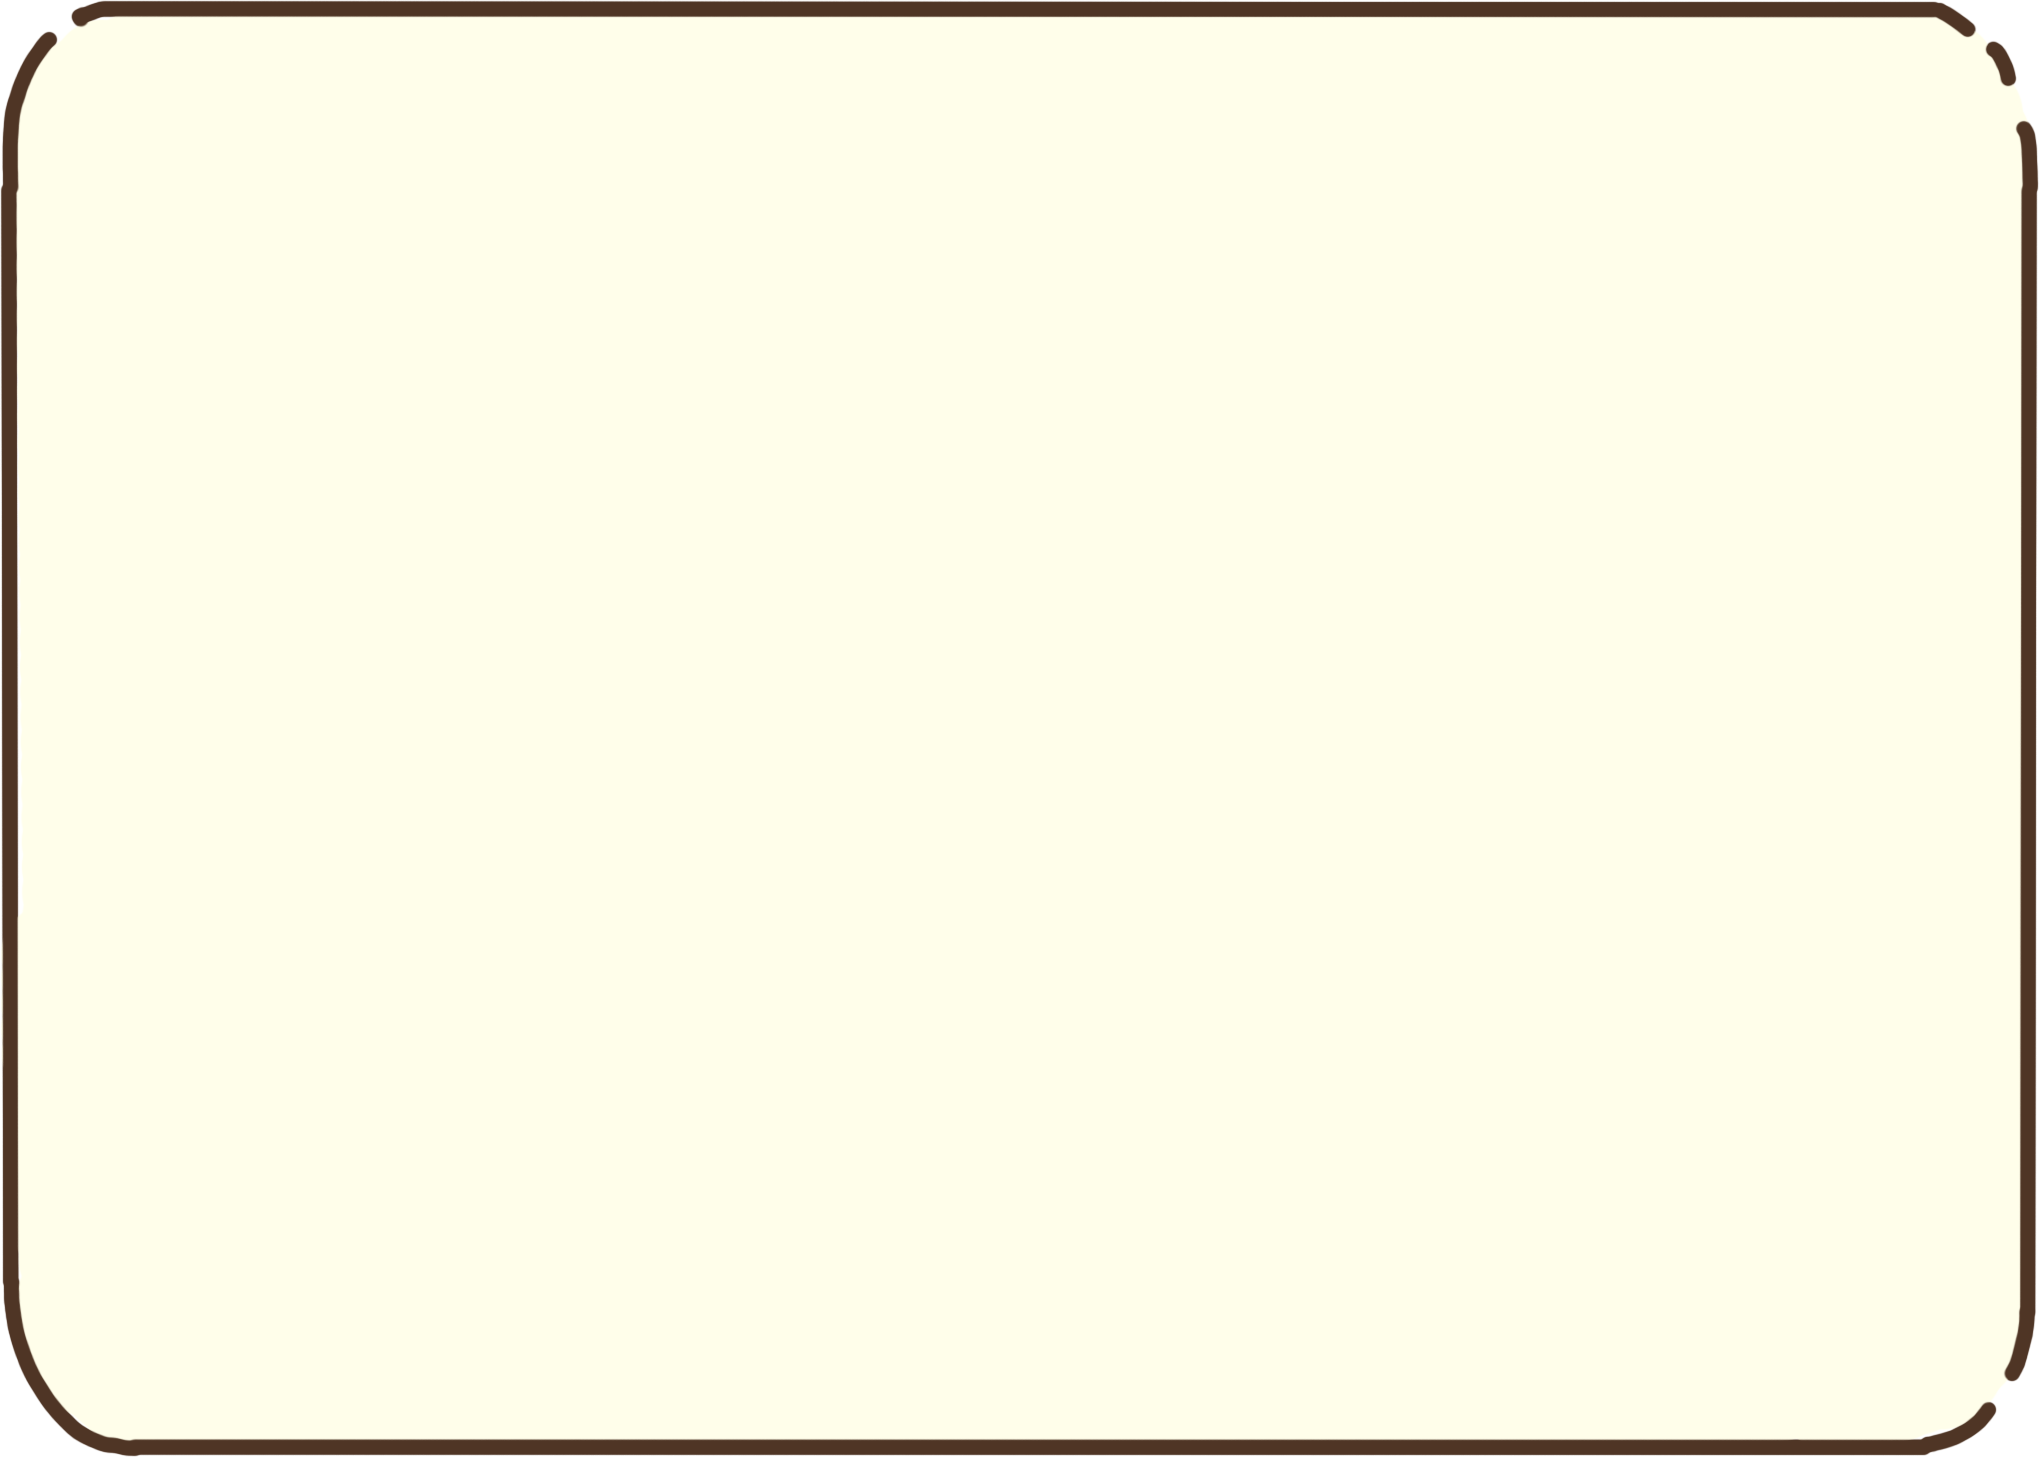
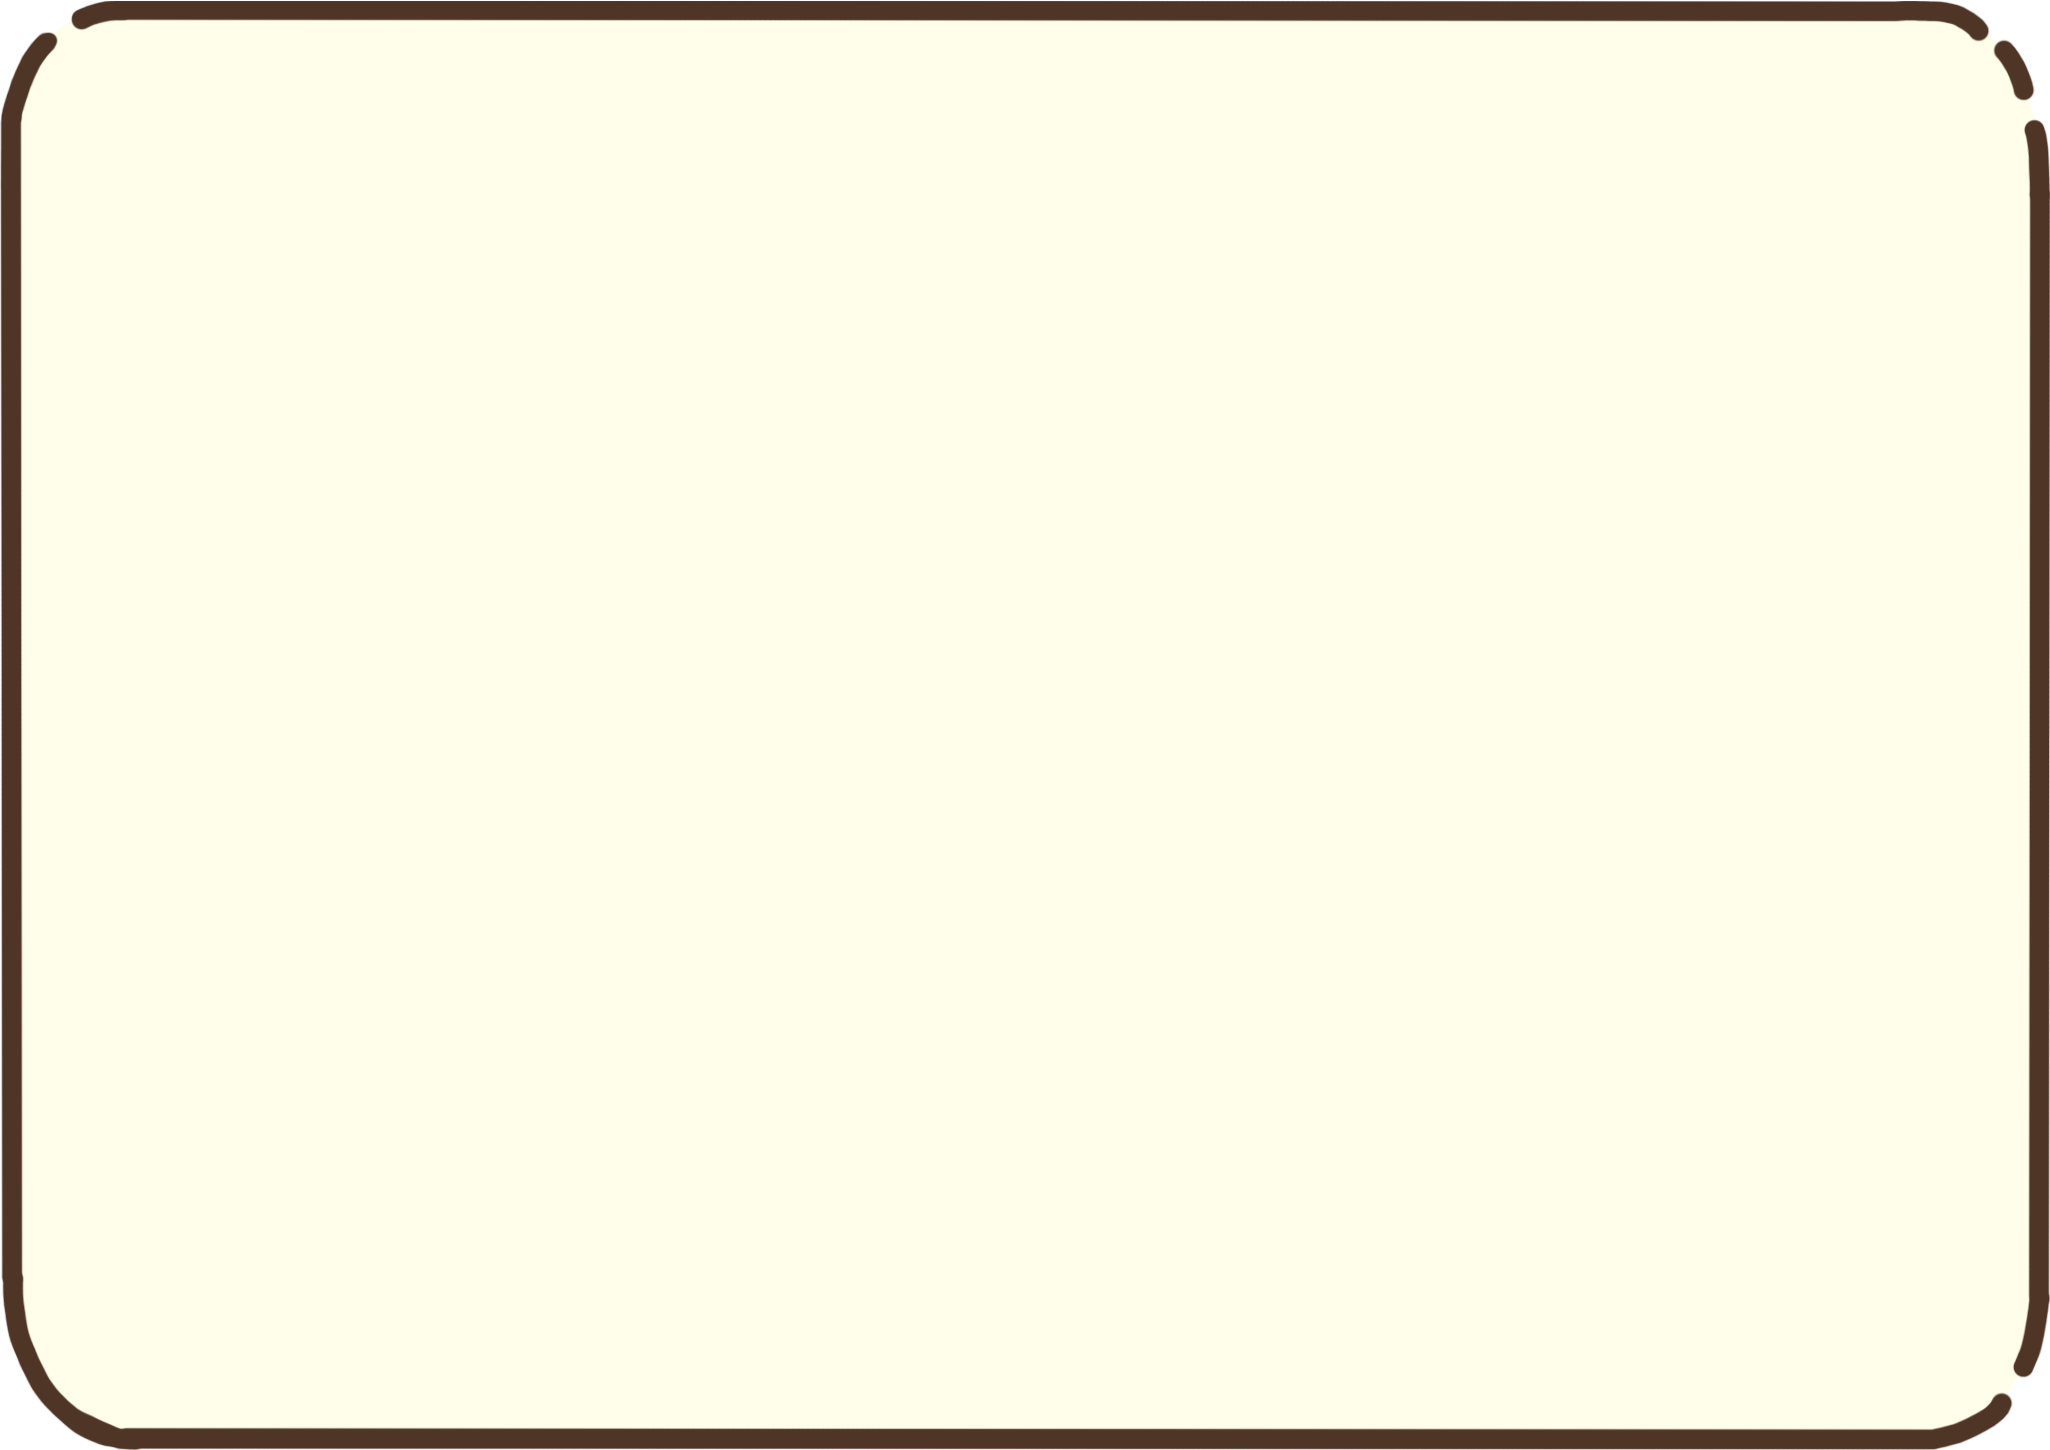
update bg asset - regulate border width

diff --git a/styles/globals.css b/styles/globals.css
@@ -108,8 +108,8 @@ body {
   flex-shrink: 1;
 
   background-image: url('/images/main.png');
-  /* 0.71% */
-  padding-top: 71%;
+  /* 0.70% */
+  padding-top: 70%;
 }
 .main-image > div {
   width: 100%;
